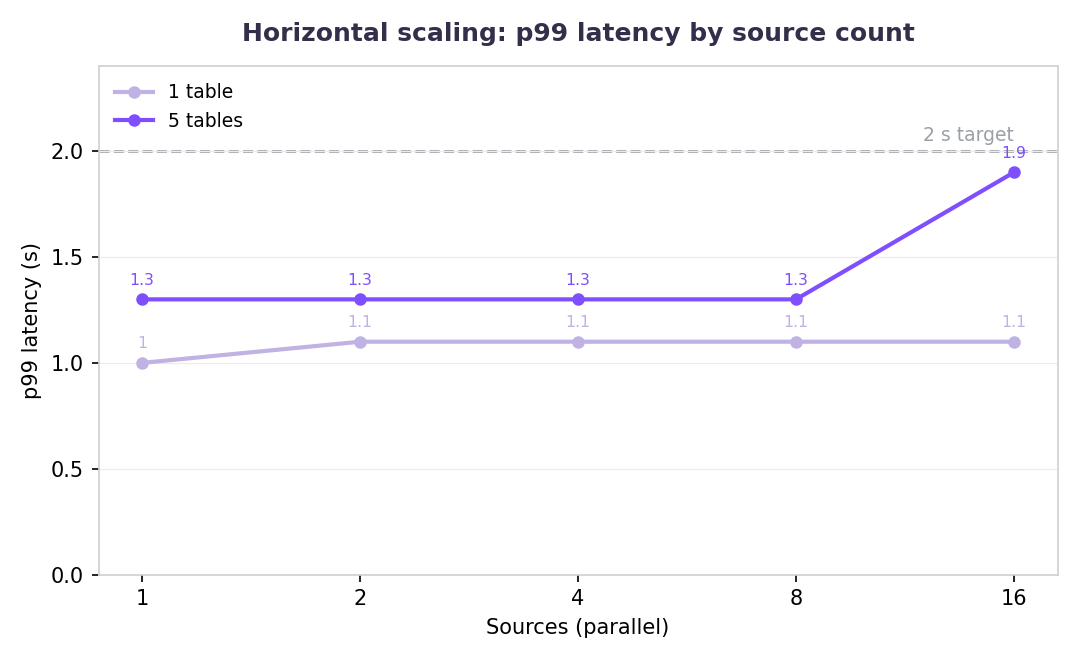
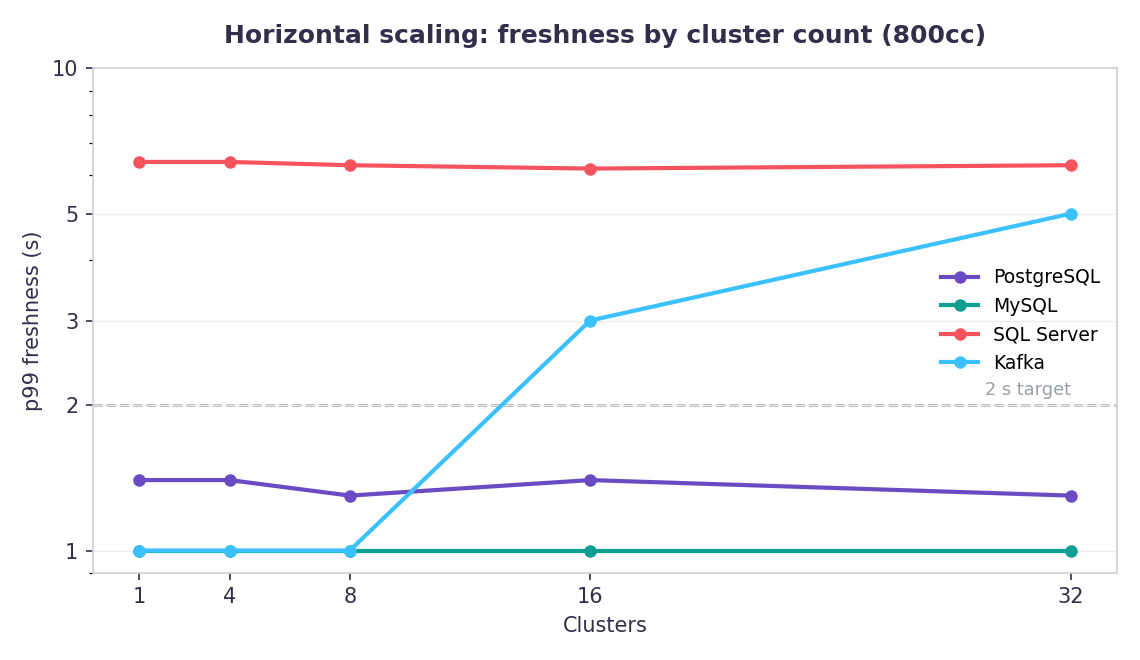
docs: finalize ingestion performance page
Combined all four sources onto one chart per benchmark (Chart | Data tabs),
reconcile every figure with the finalized ingestion-performance litepaper
(reported Kafka freshness, corrected Postgres horizontal data, 117k/96k/43k
throughput), align the Test/Method/Results prose, and match the whitepaper's
chart axes. Remove the superseded split and unused chart images.

diff --git a/doc/user/content/reference/performance.md b/doc/user/content/reference/performance.md
@@ -1,205 +1,178 @@
 ---
-title: "Performance"
-description: "How much load Materialize sustains while keeping data fresh, fast, and consistent."
+title: "Ingestion performance"
+description: "How Materialize sustains freshness and throughput during ingestion, with predictable load on upstream systems."
 menu:
   main:
     parent: reference
+    identifier: performance
     weight: 160
-    identifier: 'performance'
-mermaid: true
 ---
 
-Materialize is designed to transform and serve operational data with the [highest freshness and lowest query latency](/concepts/reaction-time/), with [strong consistency](/get-started/#strong-consistency-guarantees) by default. This page covers how much load and throughput Materialize can sustain while preserving all three, so you can assess Materialize against a specific workload, size compute requirements, and estimate potential cost.
-
-## Approach
-
-At a high level, Materialize ingests data from external systems, joins and transforms it into real-time views, and serves those views to apps and agents over SQL, Kafka, or MCP. Alongside the end-to-end latency from ingestion to serving, it is important to understand performance at each individual step:
-
-1. **[Ingest](/ingest-data/)**: ingesting data from an external system and making it available for use.
-2. **[Transform](/transform-data/)**: joining and shaping ingested data into real-time views.
-3. **[Serve](/serve-results/)**: serving data to queries, or pushing data downstream to sinks.
-
-<style>.mermaid, .mermaid svg { background: #ffffff !important; } .mermaid .edgeLabel, .mermaid .edgeLabel * { color: #7F4EFF !important; } .mermaid .edgeLabel, .mermaid .edgeLabel rect, .mermaid .edgeLabel foreignObject div { background-color: #ffffff !important; fill: #ffffff !important; }</style>
-
-```mermaid
-%%{init: {'theme':'base', 'themeVariables': {'background':'#ffffff', 'lineColor':'#BDB0E0', 'edgeLabelBackground':'#ffffff'}}}%%
-flowchart LR
-    src[("External<br/>system")]
-    subgraph mz["Materialize"]
-        raw["Raw tables"]
-        views["Views"]
-    end
-    src -->|1. Ingest| raw
-    raw -->|2. Transform| views
-    views -->|3. Serve| query["Query<br/>(pull)"]
-    views -->|3. Serve| sink[("Sink<br/>(push)")]
-
-    classDef ext fill:#ffffff,stroke:#adb5bd,color:#343a40;
-    classDef core fill:#ffffff,stroke:#BDB0E0,color:#332E49;
-    class src,query,sink ext;
-    class raw,views core;
-    style mz fill:#ffffff,stroke:#C0B2E3,color:#332E49;
-```
+This page provides an overview of ingestion performance from internal benchmarks, so you can assess Materialize against a specific workload, size a [cluster](/concepts/clusters/), and estimate cost. The results show that Materialize sustains high [freshness](/concepts/reaction-time/#freshness) and throughput with predictable load on upstream sources. For the full test methodology and results, see the [ingestion performance litepaper](https://materialize.com/ingestion-performance-litepaper/).
 
 {{< note >}}
-These are indicative numbers. For more accurate results, test against your own workload and data.
+These are indicative numbers from a controlled test bench. For numbers that reflect your workload, we advise testing against your own data and sources.
 {{< /note >}}
 
-## Ingest
+## Benchmarks
 
-Ingest performance is measured with four benchmarks: sustained throughput, snapshot throughput, snapshot impact, and horizontal scaling. Each benchmark uses the same setup: a [k6](https://k6.io) load generator writes into the database, Materialize ingests the changes, and probes measure throughput, completion time, and latency.
+We run five benchmarks spanning the lifecycle of a typical Materialize installation, from bringing a new [source](/concepts/sources/) online, to running in steady state, to scaling up load and the number of clusters. We run each benchmark across PostgreSQL, MySQL, SQL Server, and Kafka, using Materialize's default isolation level of [strict serializability](/reference/isolation-level/).
 
-- **Database**: PostgreSQL 18, db.r6g.2xlarge (8 vCPU, 64 GB).
-- **Schema**: a bigint key with two text columns and two timestamps (~100 bytes per row).
-- **Load driver**: k6, c7g.4xlarge (16 vCPU, 32 GB).
+### Snapshot time
 
-PostgreSQL is used as the external system, as a widely used operational database and a common change data capture (CDC) source.
+- **Test:** How long the initial [snapshot](/ingest-data/#snapshotting) of a newly connected source takes to complete.
+- **Method:** We create a source and snapshot 1 to 4 tables (topics for Kafka), each holding 100 million records (about 10 GB), using a 400cc Materialize cluster.
+- **Results:** A single table snapshots in 2 to 7.1 minutes depending on the source. Snapshot time depends on cluster size (see [snapshotting](/ingest-data/#duration)).
 
-### Key concepts
-
-- **[Source](/concepts/sources/)**: A representation of an external system and the data to ingest from it, such as a PostgreSQL database and a subset of its tables, or a Kafka topic. In Materialize, you can create multiple sources against the same external system.
-- **[Cluster](/concepts/clusters/)**: A pool of compute (CPU, memory, and disk) that runs a workload.
-- **[Cluster size](/self-managed-deployments/appendix/appendix-cluster-sizes/)**: A value from 25cc to 6400cc that specifies how much CPU, memory, and disk a cluster has.
-- **Writers**: The number of parallel connections writing to the database.
-- **Batch size**: The number of rows written per transaction.
-
-### Benchmark: Sustained throughput
-
-Sustained throughput is the maximum write throughput Materialize can ingest from a single source while staying within a latency target. It is measured by increasing the write rate until p99 latency exceeds two seconds, where latency is defined as the time from a write being committed to the database to that data becoming available in Materialize. It shows that Materialize can process tens of thousands of writes a second, even on a small cluster.
-
-- **Tables**: 1.
-- **Batch size**: 100.
-- **Run**: 10 minutes.
-
-#### Results
 {{< tabs >}}
 {{< tab "Chart" >}}
 
-![Sustained throughput: max write rate held within target](/images/performance-sustained.png)
+![Snapshot time by table or topic count](/images/performance-snapshot.png)
 
 {{< /tab >}}
 {{< tab "Data" >}}
 
-| Cluster size | Writers | Throughput | P50 latency | P99 latency | Max latency |
-|---|---|---|---|---|---|
-| 100cc | 1 | ~34,000 rows/s | 0.6 s | 1.1 s | 1.3 s |
-| 100cc | 2 | ~67,000 rows/s | 0.7 s | 1.3 s | 1.6 s |
-| 400cc | 1 | ~38,000 rows/s | 0.6 s | 1.1 s | 1.2 s |
-| 400cc | 2 | ~66,000 rows/s | 0.6 s | 1.2 s | 2.4 s |
-| 1600cc | 1 | ~36,000 rows/s | 0.6 s | 1.1 s | 1.3 s |
-| 1600cc | 2 | ~67,000 rows/s | 0.6 s | 1.1 s | 1.2 s |
+Snapshot time (minutes) by number of tables (topics for Kafka).
+
+| Source | 1 | 4 |
+|---|---|---|
+| PostgreSQL | 2.0 | 5.1 |
+| MySQL | 5.6 | 10.6 |
+| SQL Server | 7.1 | 26.1 |
+| Kafka | 4.2 | 51.2 |
 
 {{< /tab >}}
 {{< /tabs >}}
 
-### Benchmark: Snapshot throughput
+### Snapshot load
 
-Snapshot throughput is the rate at which Materialize completes the [initial snapshot](/ingest-data/#snapshotting) of a source. It is measured by timing the snapshot of a fixed dataset to completion, across different cluster sizes and table counts. It shows that Materialize ingests a source's data quickly, even for large initial datasets.
+- **Test:** The load the snapshot places on the upstream system while it runs.
+- **Method:** We create a source and snapshot 1 to 4 tables (topics for Kafka), each holding 100 million records (about 10 GB), recording the upstream system's peak CPU, egress, and memory, using a 400cc Materialize cluster.
+- **Results:** Peak CPU stays between about 3% and 35% depending on the source, and the load is mostly CPU and egress rather than memory, which stays flat throughout.
 
-- **Writers**: 8.
-- **Rows**: 100 million (~10 GB) per table.
-
-#### Results
 {{< tabs >}}
 {{< tab "Chart" >}}
 
-![Snapshot throughput: completion time by cluster size](/images/performance-snapshot.png)
+![Peak upstream CPU during snapshot](/images/performance-snapshot-load.png)
 
 {{< /tab >}}
 {{< tab "Data" >}}
 
-| Cluster size | Tables | Throughput | Snapshot time |
-|---|---|---|---|
-| 25cc | 1 | ~98,000 rows/s | ~17 min (1024 s) |
-| 25cc | 2 | ~101,000 rows/s | ~33 min (1984 s) |
-| 25cc | 4 | ~102,000 rows/s | ~65 min (3904 s) |
-| 100cc | 1 | ~330,000 rows/s | ~5 min (304 s) |
-| 100cc | 2 | ~368,000 rows/s | ~9 min (544 s) |
-| 100cc | 4 | ~391,000 rows/s | ~17 min (1023 s) |
-| 400cc | 1 | ~810,000 rows/s | ~2 min (123 s) |
-| 400cc | 2 | ~1,090,000 rows/s | ~3 min (184 s) |
-| 400cc | 4 | ~1,320,000 rows/s | ~5 min (304 s) |
-| 1600cc | 1 | ~810,000 rows/s | ~2 min (124 s) |
-| 1600cc | 2 | ~1,610,000 rows/s | ~2 min (124 s) |
-| 1600cc | 4 | ~2,190,000 rows/s | ~3 min (183 s) |
+Peak upstream load reading four tables (topics for Kafka).
+
+| Source | Peak CPU | Egress |
+|---|---|---|
+| PostgreSQL | 21.3% | 204 MB/s |
+| MySQL | 14.5% | 83 MB/s |
+| SQL Server | 7.3% | 30 MB/s |
+| Kafka | 21.1% (broker) | 73 MB/s (combined) |
 
 {{< /tab >}}
 {{< /tabs >}}
 
-### Benchmark: Snapshot impact
+### Sustained throughput
 
-Snapshot impact is the load Materialize places on the database when processing the initial snapshot. It is measured by recording peak load during snapshotting, across different cluster sizes and table counts, while the database also handles a steady write workload that simulates normal traffic. It shows that Materialize can safely run against production databases without overwhelming CPU or replication slots, and that you can control that impact by adjusting cluster size.
+- **Test:** How much data Materialize can ingest from a single source while keeping it fresh.
+- **Method:** We use a k6 load generator to write data to the source, increasing the number of parallel writers from 1 to 16, using a 400cc Materialize cluster.
+- **Results:** Throughput reaches 43,000 to 117,000 rows a second across all sources, with p99 freshness around 1 to 2 seconds apart from SQL Server, which lags as its poll-based CDC falls behind.
 
-- **Writers**: 8.
-- **Write rate**: ~4,000 writes/s.
-- **Rows**: 100 million (~10 GB) per table.
-
-#### Results
 {{< tabs >}}
 {{< tab "Chart" >}}
 
-![Snapshot impact: peak database CPU by cluster size](/images/performance-snapshot-impact.png)
+![Sustained throughput and p99 freshness by source](/images/performance-throughput.png)
 
 {{< /tab >}}
 {{< tab "Data" >}}
 
-| Cluster size | Tables | CPU | Replication slot | Network out |
+Four parallel writers.
+
+| Source | Throughput | p99 freshness |
+|---|---|---|
+| PostgreSQL | ~117,000 rows/s | 2.5 s |
+| SQL Server | ~96,000 rows/s | 308 s |
+| MySQL | ~43,000 rows/s | 1.2 s |
+| Kafka | ~68,000 msgs/s | 1 s |
+
+{{< /tab >}}
+{{< /tabs >}}
+
+### Vertical scaling
+
+- **Test:** How many tables a single Materialize cluster keeps fresh at once.
+- **Method:** We use a k6 load generator to write data to the source, increasing the number of tables from 1 to 100, using a 400cc Materialize cluster.
+- **Results:** Freshness holds around 1 to 2 seconds from 1 to 100 tables for most sources, apart from SQL Server, which lags as its poll-based CDC falls behind.
+
+{{< tabs >}}
+{{< tab "Chart" >}}
+
+![Vertical scaling freshness by table count](/images/performance-vertical.png)
+
+{{< /tab >}}
+{{< tab "Data" >}}
+
+p99 freshness by table count.
+
+| Tables | PostgreSQL | MySQL | SQL Server | Kafka |
 |---|---|---|---|---|
-| 25cc | 1 | 8% | 12.4 KB | 13 MB/s |
-| 25cc | 2 | 2% | 12.4 KB | 14 MB/s |
-| 25cc | 4 | 2% | 12.4 KB | 14 MB/s |
-| 100cc | 1 | 6% | 12.4 KB | 51 MB/s |
-| 100cc | 2 | 6% | 12.4 KB | 51 MB/s |
-| 100cc | 4 | 6% | 12.4 KB | 51 MB/s |
-| 400cc | 1 | 16% | 12.4 KB | 134 MB/s |
-| 400cc | 2 | 21% | 12.4 KB | 201 MB/s |
-| 400cc | 4 | 21% | 12.4 KB | 204 MB/s |
-| 1600cc | 1 | 9% | 12.4 KB | 165 MB/s |
-| 1600cc | 2 | 42% | 12.4 KB | 333 MB/s |
-| 1600cc | 4 | 59% | 12.4 KB | 505 MB/s |
+| 1 | 1.1 s | 1.1 s | 423 s | 1 s |
+| 10 | 1.5 s | 1.6 s | 429 s | 1 s |
+| 20 | 2.3 s | 2.0 s | 424 s | 1 s |
+| 50 | 1.0 s | 1.3 s | 424 s | 1 s |
+| 100 | 1.1 s | 1.1 s | 431 s | 1 s |
 
 {{< /tab >}}
 {{< /tabs >}}
 
-### Benchmark: Horizontal scaling
+### Horizontal scaling
 
-Horizontal scaling is how many sources Materialize can ingest in parallel on a fixed cluster while staying within the latency target. It is measured by increasing the number of sources, at one and five tables per source, and recording p99 latency. It shows that many sources can share a single cluster within the latency target, more when each carries fewer tables.
+- **Test:** How freshness holds as more Materialize clusters read from the same upstream system.
+- **Method:** We use a k6 load generator to write data to the source, increasing the number of 800cc Materialize clusters reading it from 1 to 32.
+- **Results:** Freshness holds steady out to 32 clusters for most sources, apart from Kafka, which rises to 5 seconds at the largest fan-out. Upstream load rises predictably with the number of clusters.
 
-- **Cluster size**: 800cc.
-- **Write rate**: ~800 writes/s.
-- **Writers**: 1.
-- **Batch size**: 1.
-- **Run**: 10 minutes.
-
-#### Results
 {{< tabs >}}
 {{< tab "Chart" >}}
 
-![Horizontal scaling: p99 latency by source count](/images/performance-horizontal.png)
+![Horizontal scaling freshness by cluster count](/images/performance-horizontal.png)
 
 {{< /tab >}}
 {{< tab "Data" >}}
 
-| Tables per source | Sources | P50 latency | P99 latency | Max latency |
+p99 freshness at 10 tables per cluster, by cluster count.
+
+| Clusters | PostgreSQL | MySQL | SQL Server | Kafka |
 |---|---|---|---|---|
-| 1 | 1 | 0.6 s | 1.0 s | 1.1 s |
-| 1 | 2 | 0.5 s | 1.1 s | 1.2 s |
-| 1 | 4 | 0.6 s | 1.1 s | 1.2 s |
-| 1 | 8 | 0.6 s | 1.1 s | 1.6 s |
-| 1 | 16 | 0.6 s | 1.1 s | 1.1 s |
-| 5 | 1 | 0.7 s | 1.3 s | 1.4 s |
-| 5 | 2 | 0.8 s | 1.3 s | 1.5 s |
-| 5 | 4 | 0.7 s | 1.3 s | 1.4 s |
-| 5 | 8 | 0.8 s | 1.3 s | 1.7 s |
-| 5 | 16 | 0.8 s | 1.9 s | 3.8 s |
+| 1 | 1.4 s | 1.0 s | 6.4 s | 1 s |
+| 4 | 1.4 s | 1.0 s | 6.4 s | 1 s |
+| 8 | 1.3 s | 1.0 s | 6.3 s | 1 s |
+| 16 | 1.4 s | 1.0 s | 6.2 s | 3 s |
+| 32 | 1.3 s | 1.0 s | 6.3 s | 5 s |
 
 {{< /tab >}}
 {{< /tabs >}}
 
-## Transform
+## Methodology
 
-Coming soon.
+We use different test methods for the snapshot and continuous ingestion benchmarks. The snapshot benchmarks run against a fixed dataset already in the upstream system, which Materialize ingests until the snapshot completes. The throughput and scaling benchmarks use a [k6](https://k6.io) load generator to write into the upstream system as Materialize ingests, with each configuration running for ten minutes.
 
-## Serve
+We measure freshness differently for databases and Kafka, due to differences in how each operates:
 
-Coming soon.
+- **Databases**: we inject marker rows through the same source as the workload, timing how long each takes from being written to appearing in Materialize.
+- **Kafka**: we use Materialize's reported wallclock lag on the workload table, measured in whole seconds.
+
+We run these benchmarks on every release. The figures here are from Materialize v26.20.2 (EKS), with each source on a managed AWS service:
+
+| System | Instance |
+|---|---|
+| k6 load generator | c7g.4xlarge |
+| PostgreSQL 18 | db.r6g.2xlarge |
+| MySQL 8.4 | db.r6g.2xlarge |
+| SQL Server 2022 | db.r6i.4xlarge |
+| Kafka (Amazon MSK 3.6) | kafka.m5.large & kafka.m5.4xlarge (3 brokers) |
+
+## See also
+
+- [Ingestion performance litepaper](https://materialize.com/ingestion-performance-litepaper/)
+- [Reaction time](/concepts/reaction-time/)
+- [Isolation level](/reference/isolation-level/)
+- [Cluster sizes](/self-managed-deployments/appendix/appendix-cluster-sizes/)
+- [Ingest data](/ingest-data/)
